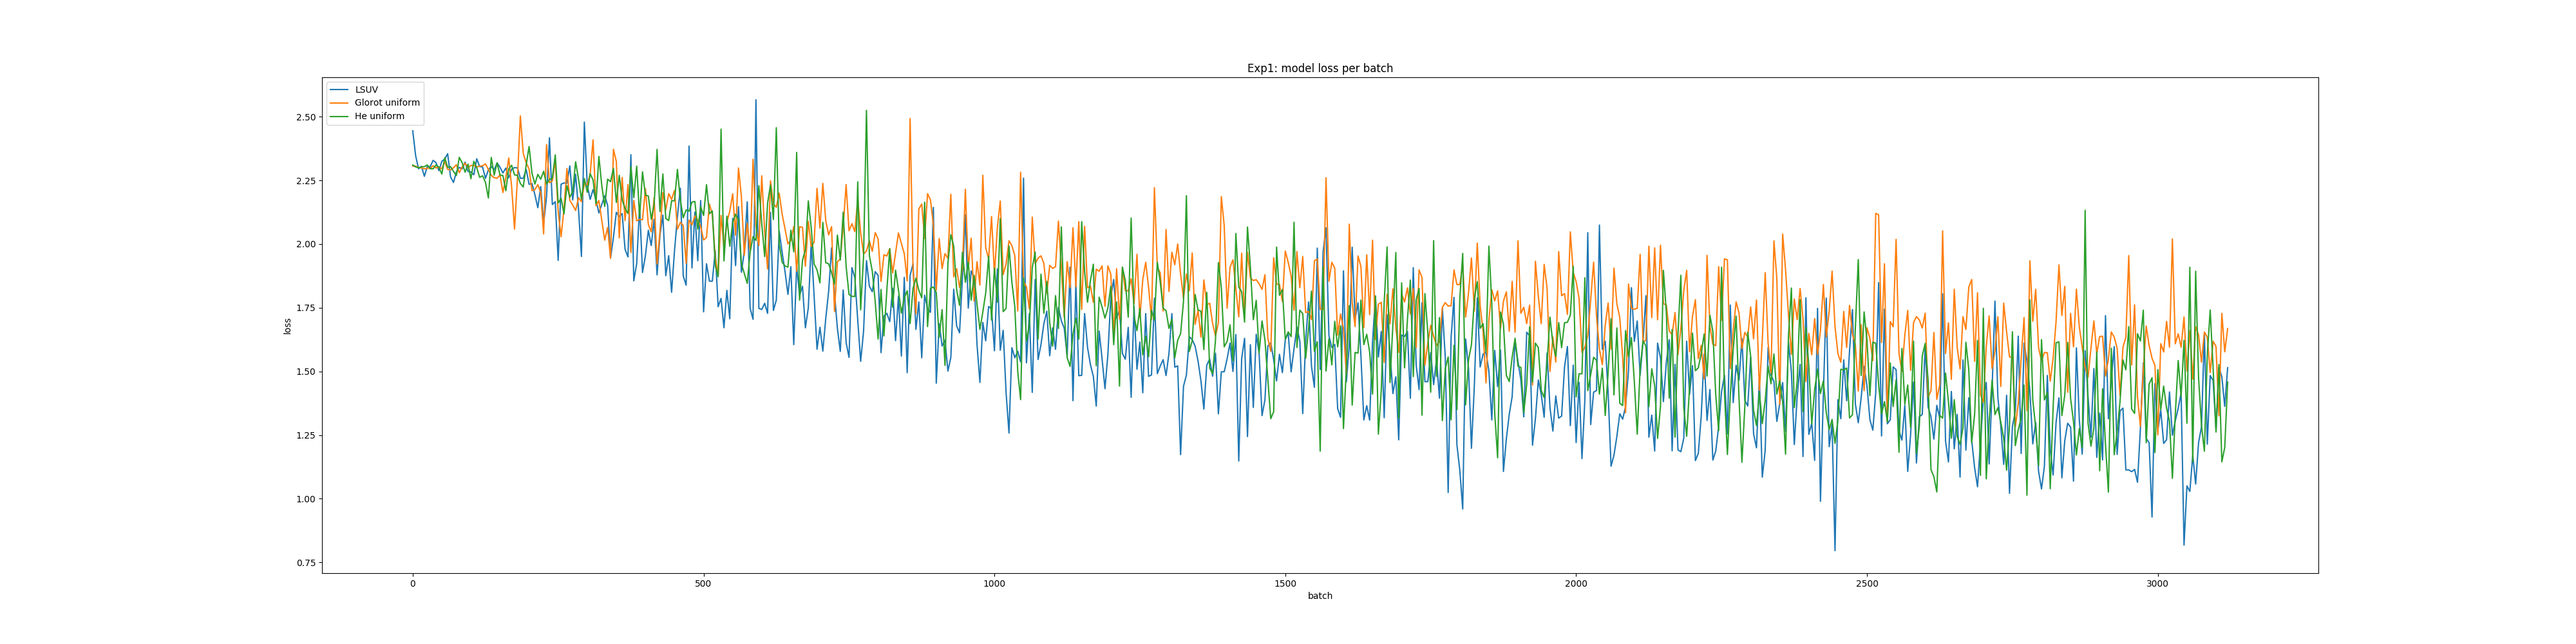
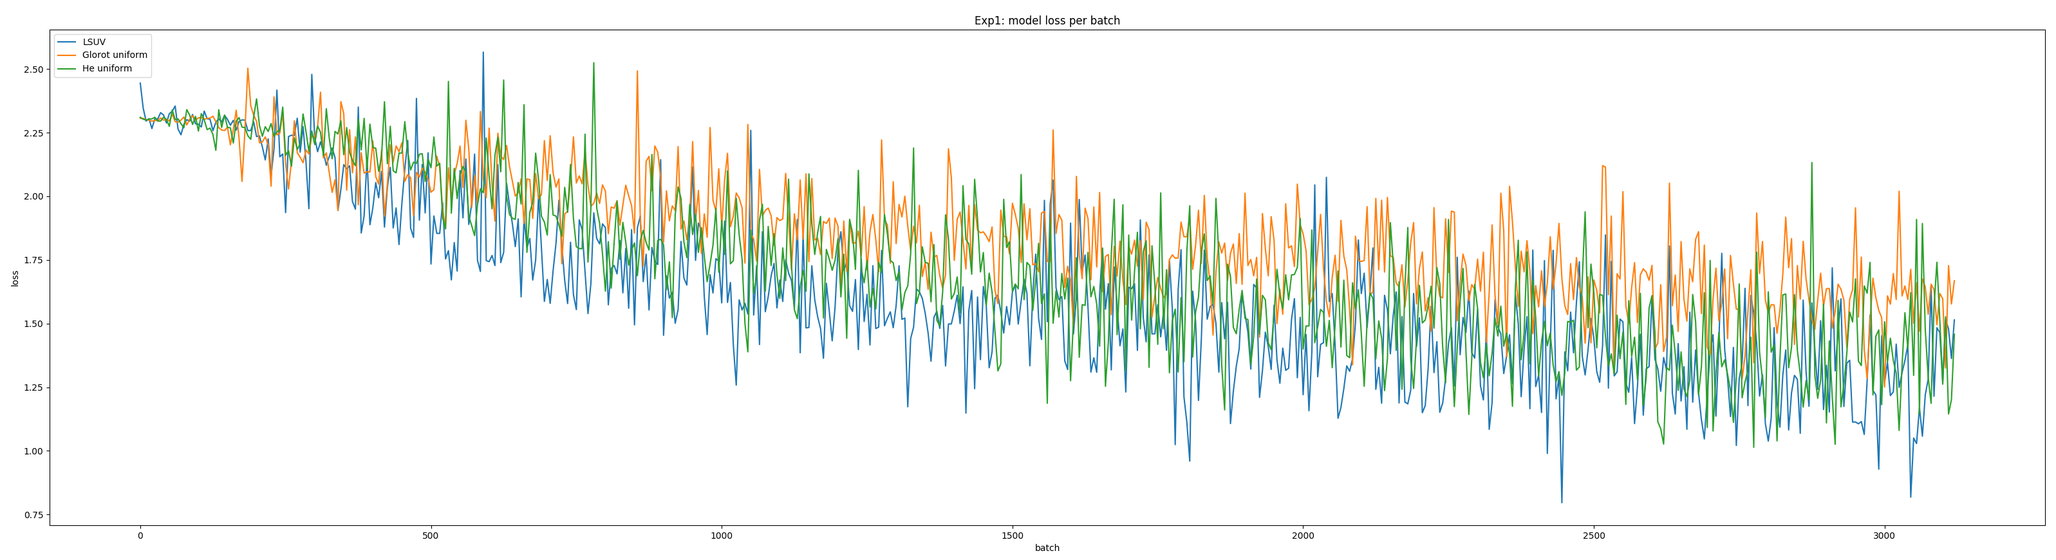
update

diff --git a/plot_acc_loss.py b/plot_acc_loss.py
@@ -154,7 +154,7 @@ with open(losses_batch_path_LSUV_norm_shift_flip_zca, "rb") as fp:
     losses_batch_LSUV_norm_shift_flip_zca = pickle.load(fp)
 
 # acc
-fig = plt.figure(1, figsize=(40, 5))
+fig = plt.figure(1, figsize=(40, 10))
 plt.plot(range(0, len(accs_batch_LSUV_nopp))[0:-1:5], accs_batch_LSUV_nopp[0:-1:5])
 plt.plot(range(0, len(accs_batch_LSUV_nsf))[0:-1:5], accs_batch_LSUV_nsf[0:-1:5])
 plt.plot(range(0, len(accs_batch_LSUV_norm_shift_flip_zca))[0:-1:5], accs_batch_LSUV_norm_shift_flip_zca[0:-1:5])
@@ -168,7 +168,7 @@ plt.savefig("exp2_acc.png")
 
 
 # loss
-fig = plt.figure(2, figsize=(40, 5))
+fig = plt.figure(2, figsize=(40, 10))
 plt.plot(range(0, len(losses_batch_LSUV_nopp))[0:-1:5], losses_batch_LSUV_nopp[0:-1:5])
 plt.plot(range(0, len(losses_batch_LSUV_nsf))[0:-1:5], losses_batch_LSUV_nsf[0:-1:5])
 plt.plot(range(0, len(losses_batch_LSUV_norm_shift_flip_zca))[0:-1:5], losses_batch_LSUV_norm_shift_flip_zca[0:-1:5])
